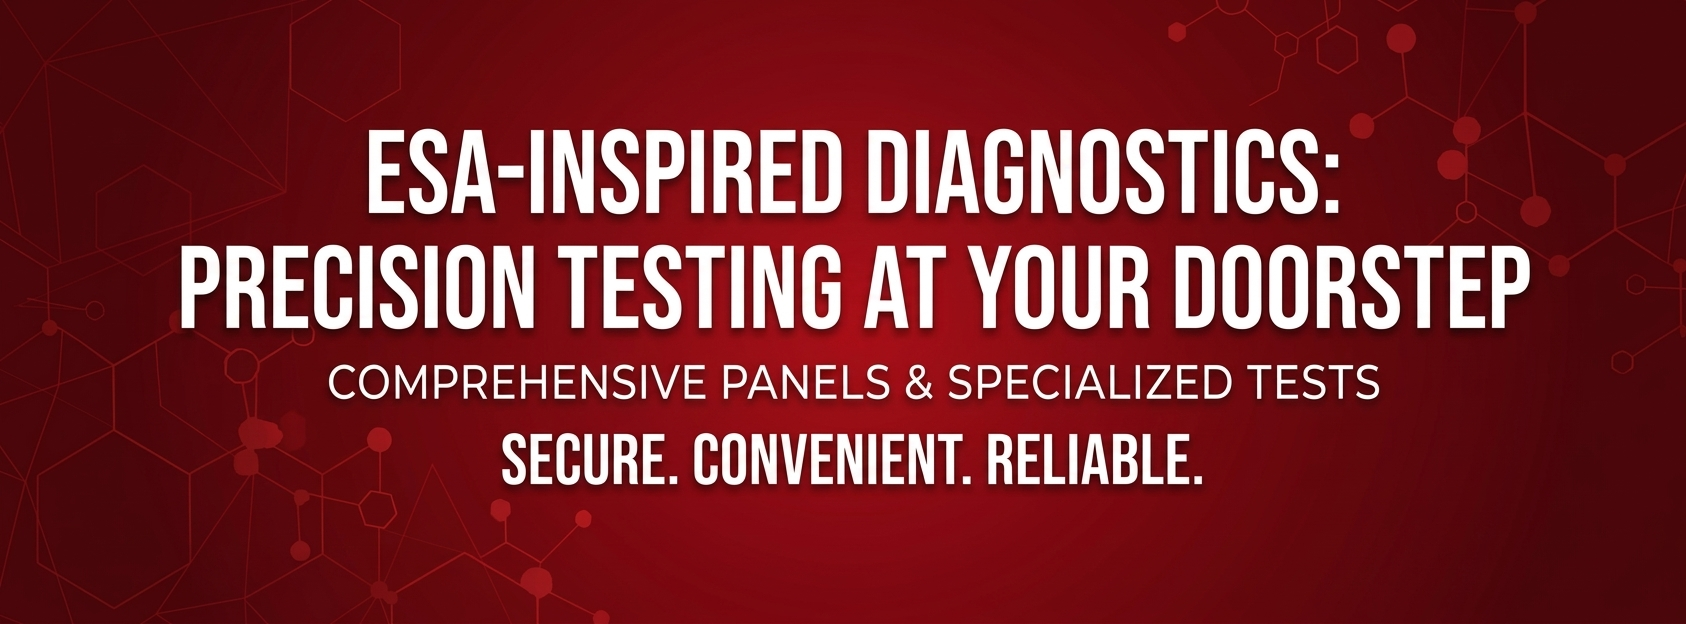
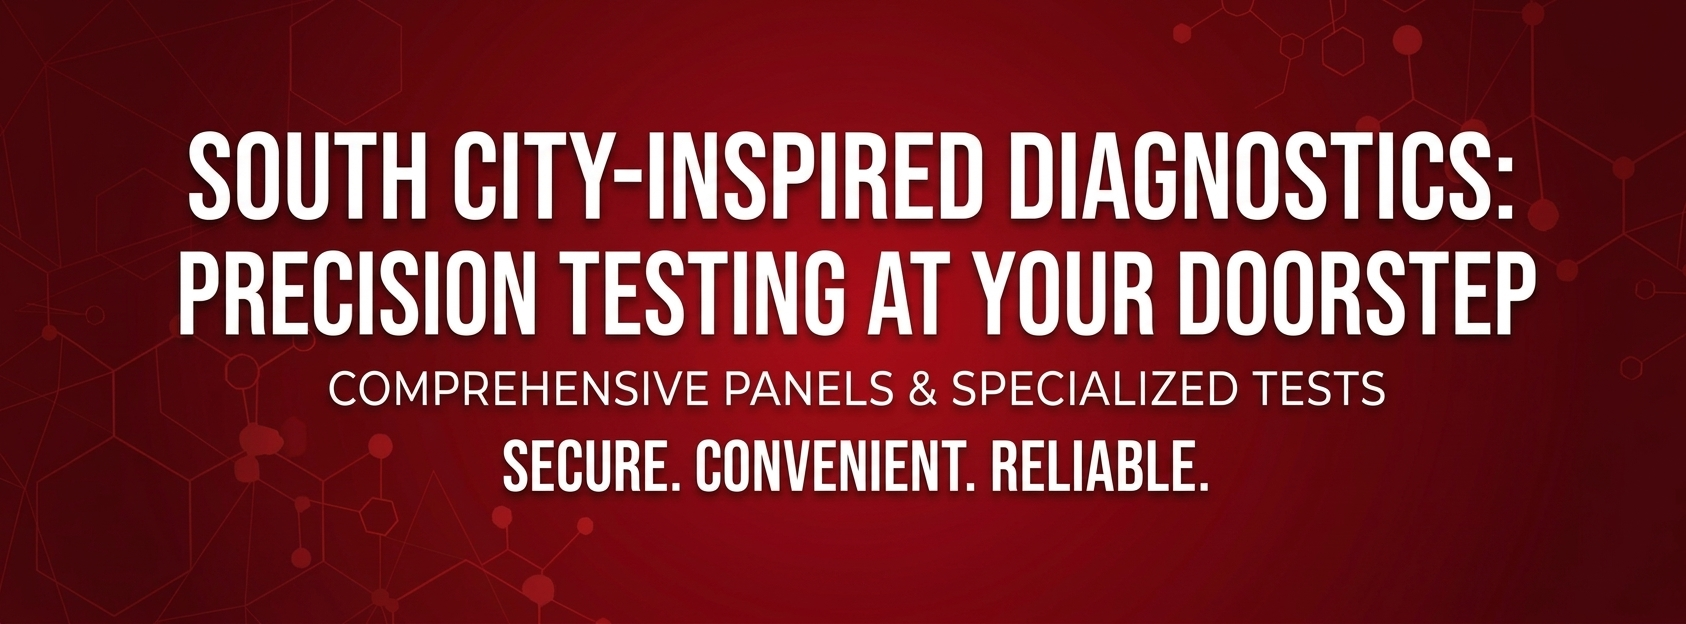
add the video

diff --git a/app/page.js b/app/page.js
@@ -2,6 +2,9 @@
 import Image from "next/image";
 
 
+
+
+
 const serviceCards = [
   ["BOOK BLOOD TESTS", "https://images.unsplash.com/photo-1579154204601-01588f351e67?auto=format&fit=crop&w=900&q=85"],
   ["BOOK PHYSIOTHERAPY", "https://images.unsplash.com/photo-1559757175-0eb30cd8c063?auto=format&fit=crop&w=900&q=85"],
@@ -42,10 +45,7 @@ export default function Home() {
     <main className="overflow-hidden text-[#273449]">
   
 
-      <section>
-        <img className="block max-h-[550px] w-full object-cover max-md:min-h-[180px]" src="/hero-image.webp" alt="Essa Laboratory services" />
-        <span className="mx-auto my-[18px] mb-[50px] block h-[5px] w-[108px] rounded-full relative -top-18 bg-[#d7dce0]" />
-      </section>
+     <iframe width="" height="315" src="https://www.youtube.com/embed/6S6pFHXROXA?si=3PCGaoBcbS3eBRyA" title="YouTube video player" frameborder="0" allow="accelerometer; autoplay; clipboard-write; encrypted-media; gyroscope; picture-in-picture; web-share" referrerpolicy="strict-origin-when-cross-origin" allowfullscreen></iframe>
 
       <section className="mx-auto mb-28 w-full max-w-[1263px] px-6 max-md:mb-[60px] max-md:px-3" id="services">
         <div className="grid grid-cols-4 gap-7 max-md:grid-cols-2 max-md:gap-3.5">

diff --git a/Components/Header.js b/Components/Header.js
@@ -36,11 +36,11 @@ const Header = () => {
       <header className={styles.mainHeader}>
         <div className={styles.logoSection}>
           <Image 
-            className={styles.logo} 
             src="/logo.png" 
-            height={280} 
-            width={280} 
-            alt="Essa Laboratory" 
+            height={100} 
+            width={100} 
+            alt="Essa Laboratory"
+            priority
           />
         </div>
 

diff --git a/Components/Footer.js b/Components/Footer.js
@@ -4,7 +4,7 @@ import Image from 'next/image'
 const Footer = () => {
   return (
     <>
-      <footer className="bg-[#f4faff] text-[#536274]">
+      <footer className=" text-[#536274]">
         <div className="mx-auto grid w-full max-w-[1263px] grid-cols-[1.35fr_1fr_1fr_1.35fr] gap-12 px-6 py-16 max-md:grid-cols-2 max-md:gap-10 max-md:px-3">
           <div>
             <img className='mb-5 h-20' src="/logo.png" alt="" />

diff --git a/Components/Header.module.css b/Components/Header.module.css
@@ -52,6 +52,15 @@
 
 .logoSection {
   flex-shrink: 0;
+  display: flex;
+  align-items: center;
+}
+
+.logoSection img {
+  height: auto;
+  width: 175px;
+  border-radius: 8px;
+  object-fit: contain;
 }
 
 .logo {
@@ -204,7 +213,7 @@
     gap: 12px;
   }
 
-  .logo {
+  .logoSection img {
     width: 100px;
   }
 
@@ -297,7 +306,7 @@
     gap: 8px;
   }
 
-  .logo {
+  .logoSection img {
     width: 80px;
   }
 

diff --git a/app/globals.css b/app/globals.css
@@ -18,6 +18,16 @@ body {
   color: #273449;
   font-family: Arial, Helvetica, sans-serif;
 }
-
+iframe {
+            height: 90vh;
+            top: 0;
+            left: 0;
+            bottom: 0;
+            right: 0;
+            width: 100vw;
+            margin: 2.5rem auto;
+            border: none;
+            display: block; /* iframes are inline by default */
+        }
 
 
